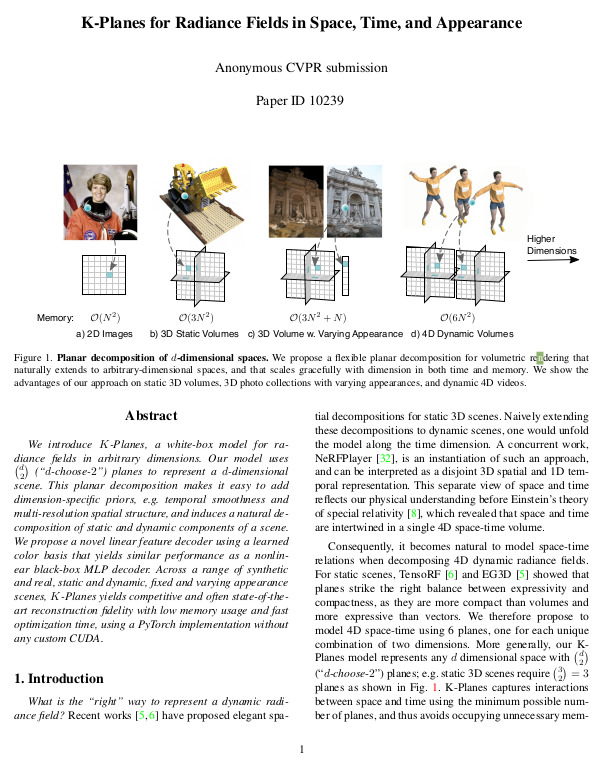
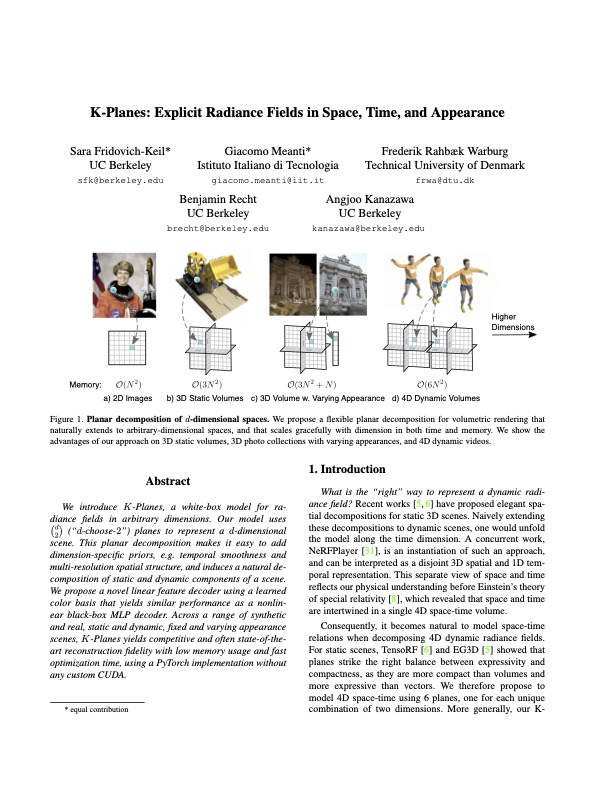
website edits

diff --git a/index.html b/index.html
@@ -184,7 +184,7 @@ figure {
 <div class="jumbotron jumbotron-fluid">
     <div class="container"></div>
     <h1 class="nerf_title_v2">K-Planes</h1>
-    <h1 class="nerf_subheader_v2">for Radiance Fields in Space, Time, and Appearance</h1>
+    <h1 class="nerf_subheader_v2">Explicit Radiance Fields in Space, Time, and Appearance</h1>
     <hr>
     <p class="authors">
         <a href="https://people.eecs.berkeley.edu/~sfk/">Sara Fridovich-Keil*</a>,
@@ -251,7 +251,7 @@ We introduce K-Planes, a white-box model for radiance fields in arbitrary dimens
             <img class="centered" src="assets/methods_ss.jpg" alt="Diagram describing the pipeline for K-Planes.">
         </figure>
         <p class="caption_justify">
-            <b>Method overview.</b> (a) The k-plane representation decomposes 4D spatiotemporal volumes into six planes, three for space and three for spatiotemporal variations. To obtain the value of a 4D point \(\textbf{q}=(x,y,z,t)\), we first project the point into each plane (b) in which we do multiscale bilinear interpolation. (c) The interpolated values are multiplied and concatenated over \(S\) scales. (d) These features are decoded either with a small MLP or our explicit decoder. (e) We follow the standard volumetric rendering formulation to predict color and density. The model is optimized by (f) minimizing the reconstruction loss with simple regularization.
+            <b>Method overview.</b> (a) The K-Plane representation decomposes 4D spatiotemporal volumes into six planes, three for space and three for spatiotemporal variations. To obtain the value of a 4D point \(\textbf{q}=(x,y,z,t)\), we first project the point into each plane (b) in which we do multiscale bilinear interpolation. (c) The interpolated values are multiplied and concatenated over \(S\) scales. (d) These features are decoded either with a small MLP or our explicit linear decoder. (e) We follow the standard volumetric rendering formula to predict color and density. The model is optimized by (f) minimizing the reconstruction loss with simple regularization in space and time.
         </p>
     </section>
 
@@ -470,13 +470,13 @@ landmarks, such as changing time of day. Appearance codes affect color but not g
             <div style="box-sizing: border-box; padding: 16px; margin: auto;">
                 <a href="assets/k-planes.pdf"><img class="screenshot" src="assets/paper_thumbnail.jpg"></a>
             </div>
-            <div style="width: 60%">
-                <p><b>Instant Neural Graphics Primitives with a Multiresolution Hash Encoding</b></p>
-                <p>Thomas Müller, Alex Evans, Christoph Schied, Alexander Keller</p>
+            <div style="width: 54%">
+                <p><b>K-Planes: Explicit Radiance Fields in Space, Time, and Appearance</b></p>
+                <p>Sara Fridovich-Keil*, Giacomo Meanti*, Frederik Rahbæk Warburg, Benjamin Recht, and Angjoo Kanazawa</p>
 
-                <div><span class="material-icons"> description </span><a href=""> Paper preprint (PDF)</a></div>
-                <div><span class="material-icons"> description </span><a href=""> arXiv version</a></div>
-                <div><span class="material-icons"> insert_comment </span><a href=""> BibTeX</a></div>
+                <!-- <div><span class="material-icons"> description </span><a href=""> Paper preprint (PDF)</a></div> -->
+                <div><span class="material-icons"> description </span><a href=""> arXiv</a></div>
+                <!-- <div><span class="material-icons"> insert_comment </span><a href=""> BibTeX</a></div> -->
                 <div><span class="material-icons"> integration_instructions </span><a href="https://github.com/sarafridov/K-Plane"> Code</a></div>
             </div>
         </div>
@@ -488,11 +488,10 @@ landmarks, such as changing time of day. Appearance codes affect color but not g
         <hr>
         <pre><code>
 @misc{sfk_kplanes_2023,
-    author = {Sara Fridovich-Keil, Giacomo Meanti, Frederik Rahbæk Warburg, Benjamin Recht, Angjoo Kanazawa},
-    title={K-Planes for Radiance Fields in Space, Time, and Appearance}, 
+    title={K-Planes: Explicit Radiance Fields in Space, Time, and Appearance},
     author={Sara Fridovich-Keil and Giacomo Meanti and Frederik Rahbæk Warburg and Benjamin Recht and Angjoo Kanazawa},
     year={2023},
-    eprint={2112.05131},
+    eprint={},
     archivePrefix={arXiv},
     primaryClass={cs.CV}
 }
@@ -501,13 +500,13 @@ landmarks, such as changing time of day. Appearance codes affect color but not g
 
 
     <section id="acknowledgements">
-        <h2>Acknowledgements</h2>
+        <h2>Acknowledgments</h2>
         <hr>
         <div>
             <p>
             We would like to thank
             <a href="https://www.matthewtancik.com">Matthew Tancik</a> and <a href="https://www.liruilong.cn/">Ruilong Li</a>
-            for their precious advice.
+            for their precious advice, and the DyNeRF authors for their responsiveness to our questions.
             We also thank <a href="https://joeylitalien.github.io/">Joey Litalien</a> for providing us with the framework for this website.
             <br/>
             <br/>
